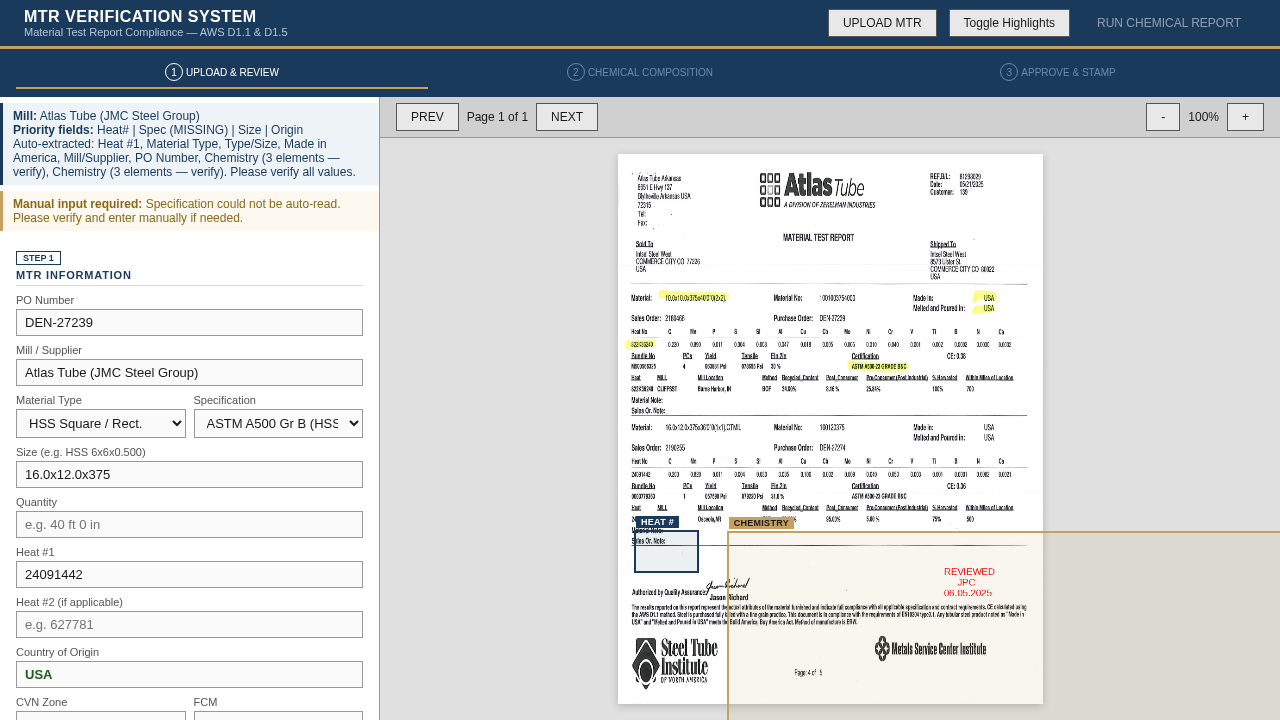
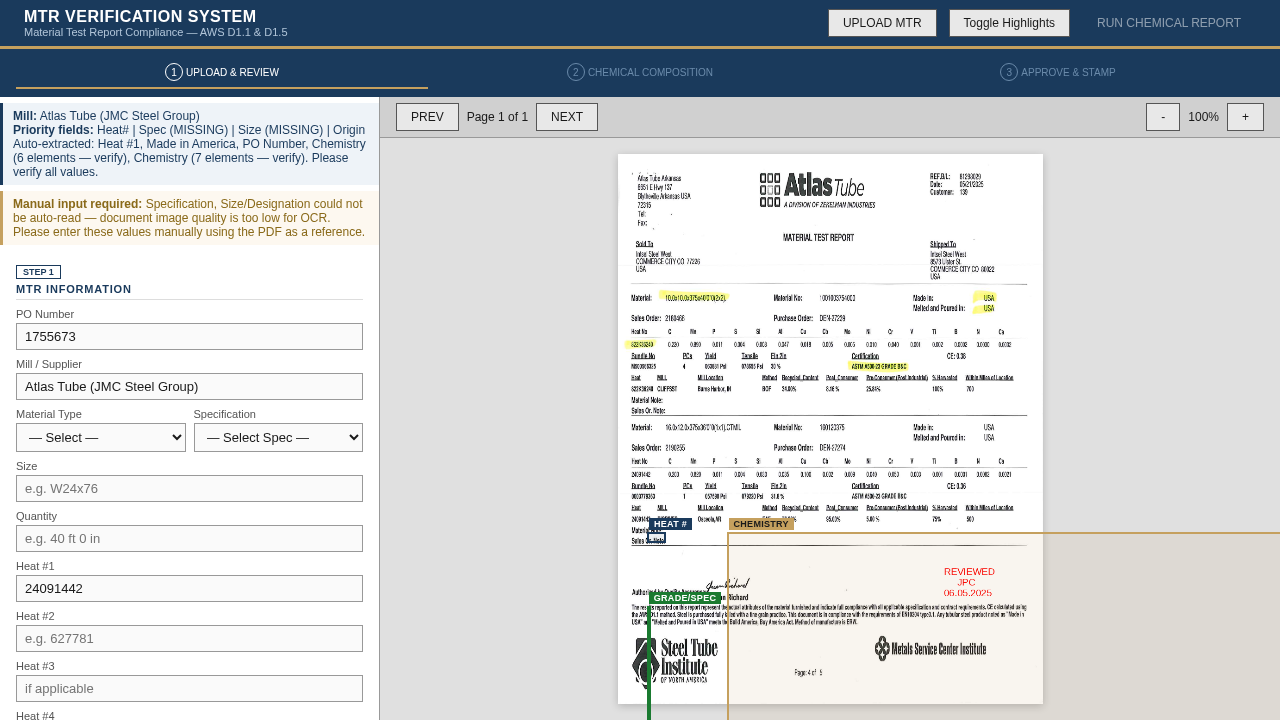
Auto-commit agent changes

diff --git a/conversations/6a6b81c94bc0607c48a32cc0/mtr_verifier.html b/conversations/6a6b81c94bc0607c48a32cc0/mtr_verifier.html
@@ -140,6 +140,7 @@ html,body{width:100%;height:100%;font-family:'Times New Roman',Georgia,serif;bac
         <div class="field-row">
           <div class="field"><label>Material Type</label>
             <select id="mat-type" onchange="onMaterialChange()">
+              <option value="">— Select —</option>
               <option value="beam">Beam (W-Shape)</option><option value="channel">Channel</option><option value="angle">Angle</option>
               <option value="flatbar">Flat Bar</option><option value="plate">Plate</option><option value="decking">Decking</option>
               <option value="hss-round">HSS Round</option><option value="hss-square">HSS Square / Rect.</option>
@@ -150,10 +151,13 @@ html,body{width:100%;height:100%;font-family:'Times New Roman',Georgia,serif;bac
           </div>
           <div class="field"><label>Specification</label><select id="spec-select" onchange="initChem()"></select></div>
         </div>
-        <div class="field"><label id="type-label">Beam Designation</label><input id="beam-type" placeholder="e.g. W24x76"></div>
+        <div class="field"><label id="type-label">Size</label><input id="beam-type" placeholder="e.g. W24x76"></div>
         <div class="field"><label>Quantity</label><input id="quantity" placeholder="e.g. 40 ft 0 in"></div>
         <div class="field"><label>Heat #1</label><input id="heat1" placeholder="e.g. 627779"></div>
-        <div class="field"><label>Heat #2 (if applicable)</label><input id="heat2" placeholder="e.g. 627781"></div>
+        <div class="field"><label>Heat #2</label><input id="heat2" placeholder="e.g. 627781"></div>
+        <div class="field"><label>Heat #3</label><input id="heat3" placeholder="if applicable"></div>
+        <div class="field"><label>Heat #4</label><input id="heat4" placeholder="if applicable"></div>
+        <div class="field"><label>Heat #5</label><input id="heat5" placeholder="if applicable"></div>
         <div class="field"><label>Country of Origin</label><input id="country-origin" placeholder="e.g. USA" style="font-weight:bold;color:#1a5c1a"></div>
         <div class="field-row">
           <div class="field"><label>CVN Zone</label>
@@ -166,7 +170,7 @@ html,body{width:100%;height:100%;font-family:'Times New Roman',Georgia,serif;bac
         <div class="field"><label>Welding Code</label>
           <select id="weld-code"><option value="D1.5">AWS D1.5 (Bridge)</option><option value="D1.1">AWS D1.1 (Structural)</option><option value="both">Both D1.1 &amp; D1.5</option><option value="none">N/A</option></select>
         </div>
-        <div class="field"><label id="thick-label">Flange Thickness (in)</label><input id="flange-thick" placeholder="e.g. 0.68"></div>
+        <input type="hidden" id="flange-thick" value="">
         <div class="note" id="preheat-info"></div>
         <button class="btn btn-primary" style="width:100%;margin-top:8px" onclick="setStep(2)">REVIEW COMPLETE — PROCEED TO CHEMICAL CHECK</button>
       </div>
@@ -270,8 +274,8 @@ var SPECS = {
   'A325':{name:'ASTM A325 (Bolt)',elements:{C:{min:0.20,max:0.55,label:'Carbon'},Mn:{min:0.20,max:0.50,label:'Manganese'},P:{min:null,max:0.060,label:'Phosphorus'},S:{min:null,max:0.050,label:'Sulfur'}}},
   'A490':{name:'ASTM A490 (Bolt)',elements:{C:{min:0.28,max:0.48,label:'Carbon'},Mn:{min:0.50,max:1.20,label:'Manganese'},P:{min:null,max:0.030,label:'Phosphorus'},S:{min:null,max:0.040,label:'Sulfur'},Si:{min:0.15,max:0.30,label:'Silicon'}}}
 };
-var MAT_SPECS = {beam:['A992','A572-50','A36','A588-A709-50W','A709-50W','A588','A709-50'],channel:['A36','A572-50','A588-A709-50W','A709-50W','A588','A709-50'],angle:['A36','A572-50','A588-A709-50W','A709-50W','A588','A709-50'],flatbar:['A36','A572-50','A588-A709-50W','A588','A709-50W'],plate:['A36','A572-50','A588-A709-50W','A709-50W','A588','A709-50'],decking:['A653-50','A653-80'],'hss-round':['A500-B','A500-C'],'hss-square':['A500-B','A500-C'],pipe:['A53-B','A106-B'],'round-bar':['A36','A108-1018'],sheet:['A653-50','A653-80'],'square-bar':['A36','A572-50'],studs:['A108-1018'],bearings:['A588-A709-50W','A709-50W','A36','A572-50'],hardware:['F1554-36','F1554-55','F1554-105','A325','A490']};
-var MAT_LABELS = {beam:'Beam Designation (e.g. W24x76)',channel:'Size (e.g. C12x25)',angle:'Size (e.g. L4x4x1/2)',flatbar:'Size (e.g. 1/2 x 4)',plate:'Thickness x Width x Length',decking:'Type (e.g. 1.5B 22ga)','hss-round':'Size (e.g. HSS 6x0.500)','hss-square':'Size (e.g. HSS 6x6x0.500)',pipe:'Size (e.g. 6in Sch 40)','round-bar':'Diameter (e.g. 1-1/2in)',sheet:'Thickness x Width x Length','square-bar':'Size (e.g. 1x1)',studs:'Size (e.g. 3/4 x 6)',bearings:'Type',hardware:'Type (e.g. A325 3/4 bolt)'};
+var MAT_SPECS = {beam:['A992','A572-50','A36','A588-A709-50W','A709-50W','A588','A709-50','A500-B','A500-C'],channel:['A36','A572-50','A588-A709-50W','A709-50W','A588','A709-50','A500-B','A500-C'],angle:['A36','A572-50','A588-A709-50W','A709-50W','A588','A709-50','A500-B','A500-C'],flatbar:['A36','A572-50','A588-A709-50W','A588','A709-50W','A500-B','A500-C'],plate:['A36','A572-50','A588-A709-50W','A709-50W','A588','A709-50','A500-B','A500-C'],decking:['A653-50','A653-80'],'hss-round':['A500-B','A500-C','A36','A572-50'],'hss-square':['A500-B','A500-C','A36','A572-50'],pipe:['A53-B','A106-B'],'round-bar':['A36','A108-1018'],sheet:['A653-50','A653-80'],'square-bar':['A36','A572-50'],studs:['A108-1018'],bearings:['A588-A709-50W','A709-50W','A36','A572-50'],hardware:['F1554-36','F1554-55','F1554-105','A325','A490']};
+var MAT_LABELS = {beam:'Size (e.g. W24x76)',channel:'Size (e.g. C12x25)',angle:'Size (e.g. L4x4x1/2)',flatbar:'Size (e.g. 1/2 x 4)',plate:'Size (Thickness x Width x Length)',decking:'Type (e.g. 1.5B 22ga)','hss-round':'Size (e.g. HSS 6x0.500)','hss-square':'Size (e.g. HSS 6x6x0.500)',pipe:'Size (e.g. 6in Sch 40)','round-bar':'Diameter (e.g. 1-1/2in)',sheet:'Size (Thickness x Width x Length)','square-bar':'Size (e.g. 1x1)',studs:'Size (e.g. 3/4 x 6)',bearings:'Type',hardware:'Type (e.g. A325 3/4 bolt)'};
 var THICK_LABELS = {beam:'Flange Thickness (in)',channel:'Web Thickness (in)',angle:'Leg Thickness (in)',flatbar:'Thickness (in)',plate:'Plate Thickness (in)',decking:'Gauge / Thickness','hss-round':'Wall Thickness (in)','hss-square':'Wall Thickness (in)',pipe:'Wall Thickness (in)','round-bar':'Diameter (in)',sheet:'Thickness (in)','square-bar':'Bar Size (in)',studs:'Stud Diameter (in)',bearings:'Thickness (in)',hardware:'Bolt Diameter (in)'};
 var D11_CAT_A=[{t:0.125,p:32},{t:0.25,p:32},{t:0.5,p:32},{t:0.75,p:32},{t:1.5,p:50},{t:2.5,p:150},{t:999,p:225}];
 var D11_CAT_B=[{t:0.125,p:32},{t:0.25,p:32},{t:0.5,p:50},{t:0.75,p:50},{t:1.5,p:150},{t:2.5,p:225},{t:999,p:300}];
@@ -301,9 +305,16 @@ function onMaterialChange() {
   var mat = document.getElementById('mat-type').value;
   var specs = MAT_SPECS[mat] || [];
   var sel = document.getElementById('spec-select');
-  sel.innerHTML = specs.map(function(s) { return '<option value="'+s+'">'+SPECS[s].name+'</option>'; }).join('');
+  // Save current spec selection before rebuilding dropdown
+  var savedSpec = sel.value;
+  sel.innerHTML = '<option value="">— Select Spec —</option>' + specs.map(function(s) { return '<option value="'+s+'">'+SPECS[s].name+'</option>'; }).join('');
+  // Restore selection if it's still valid
+  if (savedSpec) {
+    for (var i = 0; i < sel.options.length; i++) {
+      if (sel.options[i].value === savedSpec) { sel.selectedIndex = i; break; }
+    }
+  }
   document.getElementById('type-label').textContent = MAT_LABELS[mat] || 'Size';
-  document.getElementById('thick-label').textContent = THICK_LABELS[mat] || 'Thickness (in)';
   if (mat==='hardware' || mat==='studs') document.getElementById('weld-code').value = 'none';
   initChem();
   updatePreheat();
@@ -351,7 +362,7 @@ function getPreheat(t,tbl) { for (var i=0;i<tbl.length;i++) { if (t<=tbl[i].t) r
 function isWeathering() { var spec = SPECS[document.getElementById('spec-select').value]; return spec && spec.weathering; }
 function getCategory() { return document.getElementById('spec-select').value==='A36' ? 'A' : 'B'; }
 function updatePreheat() {
-  var t = parseFloat(document.getElementById('flange-thick').value);
+  var t = parseFloat(document.getElementById('flange-thick').value) || 0;
   var note = document.getElementById('preheat-info');
   var wc = document.getElementById('weld-code').value;
   if (wc==='none') { note.textContent = 'Welding code not applicable.'; return; }
@@ -1624,6 +1635,16 @@ function parseMtrText(text, area, allOcrWords) {
       document.getElementById('heat2').value = heatNums[1];
       found.push('Heat #2');
     }
+    if (heatNums.length > 2 && document.getElementById('heat3')) {
+      document.getElementById('heat3').value = heatNums[2];
+      found.push('Heat #3');
+    }
+    if (heatNums.length > 3 && document.getElementById('heat4')) {
+      document.getElementById('heat4').value = heatNums[3];
+    }
+    if (heatNums.length > 4 && document.getElementById('heat5')) {
+      document.getElementById('heat5').value = heatNums[4];
+    }
   }
 
   // ========== STEP 2: SPECIFICATION ==========
@@ -1695,6 +1716,7 @@ function parseMtrText(text, area, allOcrWords) {
 
   if (specDetected) {
     var specSelect = document.getElementById('spec-select');
+    // Make sure the spec exists in the dropdown (material type must be set first)
     for (var i = 0; i < specSelect.options.length; i++) {
       if (specSelect.options[i].value === specDetected) { specSelect.selectedIndex = i; break; }
     }
@@ -1723,7 +1745,7 @@ function parseMtrText(text, area, allOcrWords) {
       if (matSelect.options[i].value === matType) { matSelect.selectedIndex = i; break; }
     }
     onMaterialChange();
-    found.push('Material Type');
+    found.push('Material Type (' + matType + ')');
   }
 
   // ========== STEP 4: SIZE/DESIGNATION ==========
@@ -2175,7 +2197,7 @@ function generateCertificate(status, reviewer) {
 // ===== EVENTS =====
 document.getElementById('weld-code').addEventListener('change', updatePreheat);
 document.getElementById('fcm-select').addEventListener('change', updatePreheat);
-document.getElementById('flange-thick').addEventListener('input', updatePreheat);
+// flange-thick is now hidden — preheat updates via onMaterialChange
 var dz = document.getElementById('drop-zone'), pw = document.getElementById('pdf-wrap');
 ['dragenter','dragover'].forEach(function(ev) { pw.addEventListener(ev, function(e) { e.preventDefault(); dz.classList.add('drag'); }); });
 ['dragleave','drop'].forEach(function(ev) { pw.addEventListener(ev, function(e) { e.preventDefault(); dz.classList.remove('drag'); }); });
